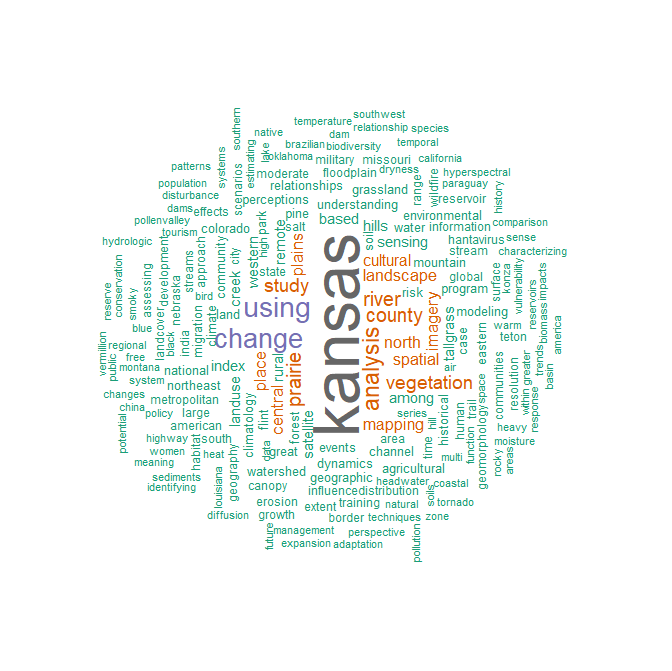
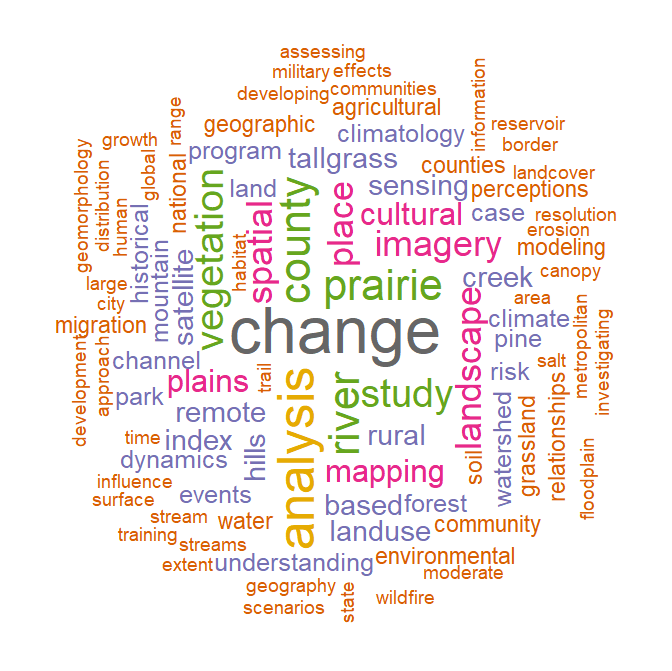
Add files via upload

Changed region(s): [[0.0625, 0.0596, 0.9062, 0.924]]

diff --git a/wordcloud.html b/wordcloud.html
@@ -38,30 +38,6 @@
 		<figcaption>The resulting word cloud. This word cloud is based on the text in Jesus's Sermon on the Mount, and is a representation of how many times Jesus uses each word, and how many words he used in his speech. The larger the word is, the more often he uses it.</figcaption>
 	</figure>
 	<p>&emsp;As you would expect from a work of text transcribed from the 16th century, there is lots of archaic language. Words like thee, thou, thine, etc. I could not find a script to remove them, so I had to do them manually to eliminate any and all stop words in order to make this word cloud as informative as possible. The words that Jesus uses the most are "heaven" and "father". This makes sense in a religious text, since the term "father" refers to God, and God is in Heaven.</p>
-	<h3 style="border-bottom:1px solid gray;">Word Cloud 2:</h3>
-	<p>&emsp; Now I want to create another word cloud, but this time using a different document. <a href="GeographySince2000.txt">This document contains the titles of every thesis written in the Kansas State University's Department of Geography since 2000.</a> I want to create a word cloud to find out which words are used the most in creating a title for a thesis statement. I will use very similar code as before, but with a different choice of stopwords removed. Observe below: </p>
-	<p class="code">
-		&#62; filePath &#60;- "GeographySince2000.txt"<br>
-		&#62; text &#60;- readLines(filePath)<br>
-		&#62; docs &#60;- Corpus(VectorSource(text))<br>
-		&#62; docs &#60;- tm_map(docs, stripWhitespace)<br>
-		&#62; docs &#60;- tm_map(docs, removeNumbers)<br>
-		&#62; docs &#60;- tm_map(docs, removePunctuation)<br>
-		&#62; docs &#60;- tm_map(docs, content_transformer(tolower))<br>
-		&#62; docs &#60;- tm_map(docs, removeWords, stopwords("english"))<br>
-		&#62; docs &#60;- tm_map(docs, removeWords, c(docs, removeWords, c("gis","two","united","states","usa","sensed","riley","along","may","use","upper","small","years","counties","images","grand","investigating","developing","era","attachment","classification","relative","remotely","improved"))<br>
-		&#62; dtm &#60;- TermDocumentMatrix(docs)<br>
-		&#62; m &#60;- as.matrix(dtm)<br>
-		&#62; v &#60;- sort(rowSums(m), decreasing=TRUE)<br>
-		&#62; d &#60;- data.frame(word = names(v), freq = v)<br>
-		&#62; set.seed(1234)<br>
-		&#62; wordcloud(words = d$word, freq = d$freq, min.freq = 2, max.words = 200, random.order = FALSE, rot.per = 0.35, colors = brewer.pal(8, "Dark2"))
-	</p>
-	<figure align="center">
-		<a href="wordcloud2.png" target="_blank"><img src="wordcloud2.png" class="responsive"></a>
-		<figcaption>The resulting word cloud. This word cloud is based on a text document containing the titles of every thesis produced by students at Kansas State University's Geography Department since 2000.</figcaption>
-	</figure>
-	<p>&emsp; Based on this word cloud, the term "Kansas" is used the most. This makes sense as Kansas State Universtiy is located within the state, and it's easiest for geography students attending there to simply write a thesis about what is the most immediately present to them.</p>
 </div>
 </body>
 </html>

diff --git a/wordcloud2.html b/wordcloud2.html
@@ -1,0 +1,39 @@
+<!DOCTYPE html>
+<html>
+<head>
+<link rel="stylesheet" href="stylesheet.css">
+<title>Word Cloud 2</title>
+</head>
+<body>
+<div id="content">
+	<h3 style="border-bottom:1px solid gray;">Word Cloud 2:</h3>
+	<p>&emsp; Now I want to create another word cloud, but this time using a different document. <a href="GeographySince2000.txt">This document contains the titles of every thesis written in the Kansas State University's Department of Geography since 2000.</a> I want to create a word cloud to find out which words are used the most in creating a title for a thesis statement. I will use very similar code as before, but with a different choice of stopwords removed. Observe below: </p>
+	<p class="code">
+		&#62; library("tm")<br>
+		&#62; library("SnowballC")<br>
+		&#62; library("wordcloud")<br>
+		&#62; library("RColorBrewer")<br>
+		&#62; filePath &#60;- "GeographySince2000.txt"<br>
+		&#62; text &#60;- readLines(filePath)<br>
+		&#62; docs &#60;- Corpus(VectorSource(text))<br>
+		&#62; docs &#60;- tm_map(docs, stripWhitespace)<br>
+		&#62; docs &#60;- tm_map(docs, removeNumbers)<br>
+		&#62; docs &#60;- tm_map(docs, removePunctuation)<br>
+		&#62; docs &#60;- tm_map(docs, content_transformer(tolower))<br>
+		&#62; docs &#60;- tm_map(docs, removeWords, stopwords("english"))<br>
+		&#62; docs &#60;- tm_map(docs, removeWords, c("kansas","missouri","american","nebraska","america","colorado","india","flint","eastern","northern","southern","western","northeast","teton","hantavirus","among","north","south","east","west","central","using","along","great","united","states"))<br>
+		&#62; dtm &#60;- TermDocumentMatrix(docs)<br>
+		&#62; m &#60;- as.matrix(dtm)<br>
+		&#62; v &#60;- sort(rowSums(m), decreasing=TRUE)<br>
+		&#62; d &#60;- data.frame(word = names(v), freq = v)<br>
+		&#62; set.seed(1234)<br>
+		&#62; wordcloud(words = d$word, freq = d$freq, min.freq = 3, max.words = 200, random.order = FALSE, rot.per = 0.35, colors = brewer.pal(8, "Dark2"))
+	</p>
+	<figure align="center">
+		<a href="wordcloud2.png" target="_blank"><img src="wordcloud2.png" class="responsive"></a>
+		<figcaption>The resulting word cloud. This word cloud is based on a text document containing the titles of every thesis produced by students at Kansas State University's Geography Department since 2000.</figcaption>
+	</figure>
+	<p>&emsp; Based on this word cloud, the term "change" is used the most. One of the hallmark features of science and math is its ability to observe change. This is probably why the term "change" is used the most among all words in this cloud.</p>
+</div>
+</body>
+</html>

diff --git a/index.html b/index.html
@@ -33,6 +33,7 @@
 				<a href="histogram-boxplot.html">Histograms and Boxplots</a>
 				<a href="linechart.html">Line Charts and Scatterplots</a>
 				<a href="wordcloud.html">Word Cloud</a>
+				<a href="wordcloud2.html">Word Cloud 2</a>
 				<a href="singleband.html">Single Band Rasters</a>
 				<a href="arcscene.html">ArcGlobe/ArcScene</a>
 				<a href="terrainflythrough.html">Terrain Flythrough</a>
